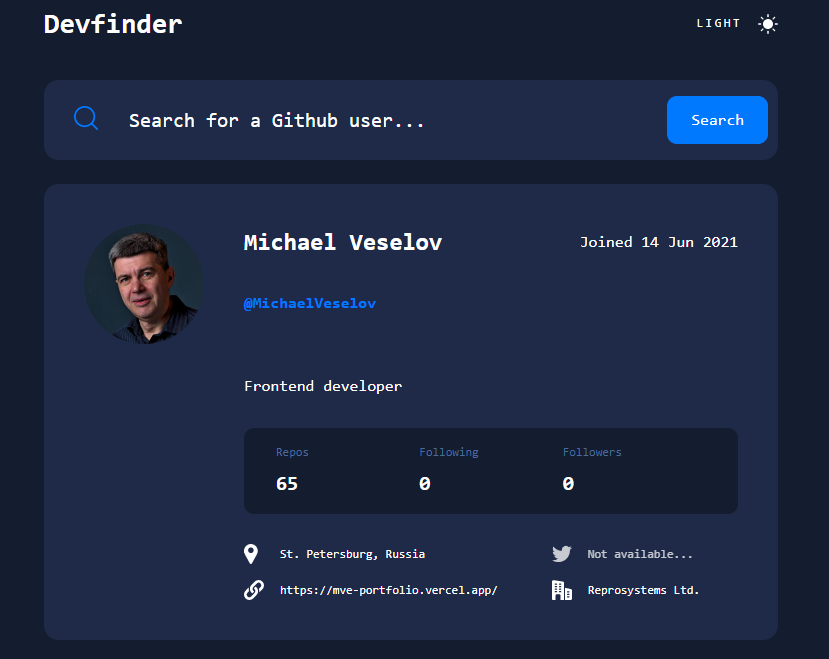
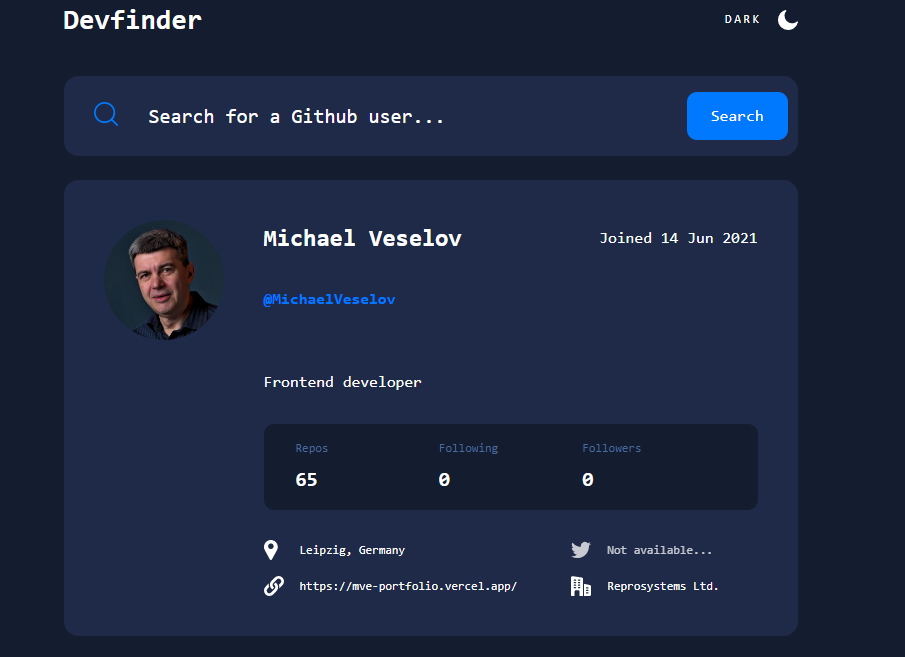
change default theme to dark

diff --git a/src/components/ThemeSwitcher/ThemeSwitcher.tsx b/src/components/ThemeSwitcher/ThemeSwitcher.tsx
@@ -6,10 +6,10 @@ import { ReactComponent as MoonIcon } from '../../assets/icon-moon.svg';
 import { ReactComponent as SunIcon } from '../../assets/icon-sun.svg';
 
 export const ThemeSwitcher = () => {
-  const [isDark, setDark] = useState(false);
+  const [isDark, setDark] = useState(true);
 
-  const themeText = isDark ? 'Light' : 'Dark';
-  const ThemeIcon = isDark ? SunIcon : MoonIcon;
+  const themeText = isDark ? 'Dark' : 'Light';
+  const ThemeIcon = isDark ? MoonIcon : SunIcon;
 
   useEffect(() => {
     document.body.setAttribute('data-theme', isDark ? 'dark' : 'light');

diff --git a/src/mock/index.ts b/src/mock/index.ts
@@ -6,7 +6,7 @@ export const defaultUser: LocalGithubUser = {
   name: 'Michael Veselov',
   company: 'Reprosystems Ltd.',
   blog: 'https://mve-portfolio.vercel.app/',
-  location: 'St. Petersburg, Russia',
+  location: 'Leipzig, Germany',
   bio: 'Frontend developer',
   twitter: '',
   repos: 65,
